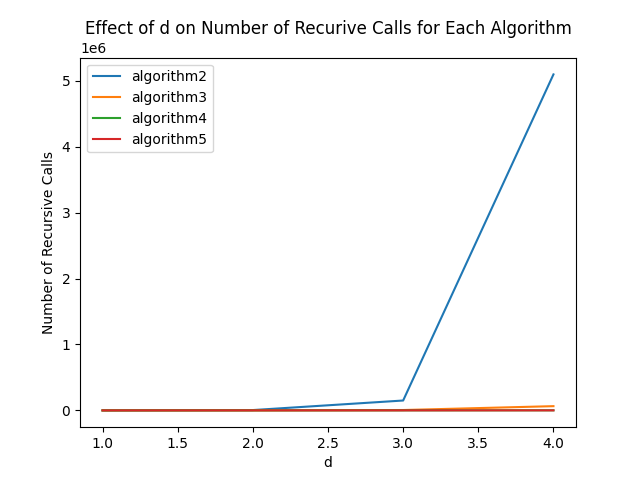
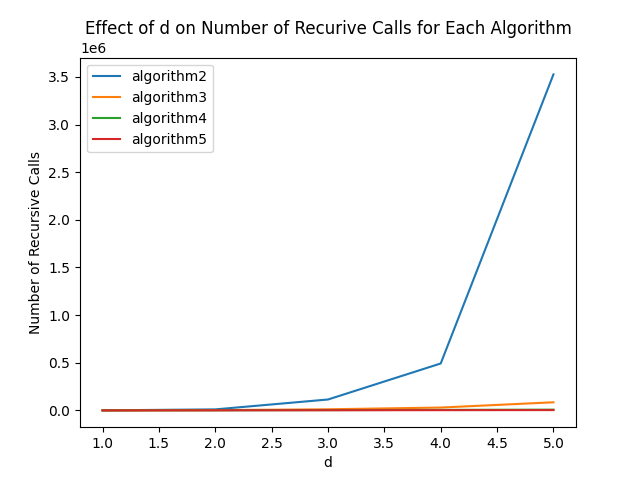
Problem 3 good to go

diff --git a/problem_3.py b/problem_3.py
@@ -1,5 +1,5 @@
 from problem_1 import *
-from problem_2 import generate_graph_1
+from problem_2 import generate_graph_1, generate_graph_2
 import pandas as pd
 from tqdm import tqdm
 
@@ -8,7 +8,7 @@ def average(lst):
     return sum(lst) / len(lst)
 
 if __name__ == '__main__':
-    num_verticies = 100
+    num_verticies = 1000
     maximum_d_value = 5
     d_values = []
     algo_2_recurive_calls_over_d = []
@@ -16,18 +16,24 @@ if __name__ == '__main__':
     algo_4_recurive_calls_over_d = []
     algo_5_recurive_calls_over_d = []
 
-    for d in range(1, maximum_d_value, 1):
+    for d in range(1, maximum_d_value+1, 1):
         algo_2_recursives = []
         algo_3_recursives = []
         algo_4_recursives = []
         algo_5_recursives = []
 
-        for _ in tqdm(range(3)):
-            edges = generate_graph_1(num_verticies, d)
-            algo_2_recursives.append(algorithm2(edges)[1])
-            algo_3_recursives.append(algorithm3(edges)[1])
-            algo_4_recursives.append(algorithm4(edges)[1])
-            algo_5_recursives.append(algorithm5(edges)[1])
+        for _ in tqdm(range(2)):
+            edges_1 = generate_graph_1(num_verticies, d)
+            algo_2_recursives.append(algorithm2(edges_1)[1])
+            algo_3_recursives.append(algorithm3(edges_1)[1])
+            algo_4_recursives.append(algorithm4(edges_1)[1])
+            algo_5_recursives.append(algorithm5(edges_1)[1])
+
+            edges_2 = generate_graph_2(num_verticies, d)
+            algo_2_recursives.append(algorithm2(edges_2)[1])
+            algo_3_recursives.append(algorithm3(edges_2)[1])
+            algo_4_recursives.append(algorithm4(edges_2)[1])
+            algo_5_recursives.append(algorithm5(edges_2)[1])
 
         algo_2_recurive_calls_over_d.append(average(algo_2_recursives))
         algo_3_recurive_calls_over_d.append(average(algo_3_recursives))

diff --git a/problem_1.py b/problem_1.py
@@ -119,7 +119,7 @@ def algorithm4(edges):
     return M, num_recursive_calls
 
 def algorithm5(edges):
-    @lru_cache
+    @lru_cache(maxsize=None)
     def selected4(e):
         nonlocal num_recursive_calls
 
